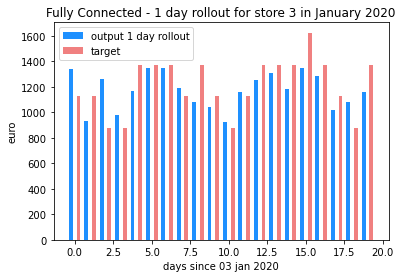
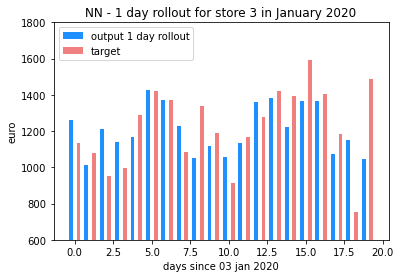
(no branch): Auto stash before rebase of "main"

diff --git a/main.py b/main.py
@@ -78,9 +78,6 @@ df = utils.remove_nan_values(df)
 date = '2020-01-01'
 
 
-scaler = MinMaxScaler()
-df_scaled = df.copy()
-df_scaled[df_scaled.columns] = scaler.fit_transform(df_scaled[df_scaled.columns])
 df['store_id'] = df.index.get_level_values('store_id')
 
 df_pre, df_post = utils.split_on_date(df, date)
@@ -88,18 +85,17 @@ df_pre, df_post = utils.split_on_date(df, date)
 train_x, train_y, test_x, test_y = utils.create_train_test(df_pre)
 
 model = FullyConnected(train_x.shape[1])
-model.model.fit(train_x.astype(float), train_y, validation_data = (test_x.astype(float), test_y), epochs = 10)
+model.model.fit(train_x.astype(float), train_y, validation_data = (test_x.astype(float), test_y), epochs = 50)
 output = model.predict(test_x.astype(float))
 
 model.test(test_x.astype(float), test_y)
 
-
-#1 DAY ROLLOUT
+#NN
 
 store_id = 3
 post_x, post_y = utils.create_train_test(df_post, test = False, store_id = store_id)
 
-outputs = []
+outputs_gradient_nn = []
 targets = []
 
 for i, x in post_x.iloc[0:20].iterrows():
@@ -110,7 +106,7 @@ for i, x in post_x.iloc[0:20].iterrows():
     
     output = int(output.item())
 
-    outputs.append(output//100)
+    outputs_gradient_nn.append(output//100)
     targets.append(target//100)
     
 
@@ -139,6 +135,7 @@ for i, x in post_x.iloc[0:20].iterrows():
     x.revenue_lastweek = r_7
     x.revenue_lastmonth = r_month
     
+<<<<<<< Updated upstream
     output = model.model.predict(x.astype(float).to_numpy().reshape(1,-1))
     
     output = int(output.item())
@@ -156,15 +153,40 @@ for i, x in post_x.iloc[0:20].iterrows():
 plt.bar(np.arange(len(outputs)) - 0.25, outputs, 0.25, label = 'output 1 day rollout', color = 'dodgerblue')
 plt.bar(np.arange(len(outputs)), output_rollout, 0.25, label = 'output total rollout', color = 'aqua')
 plt.bar(np.arange(len(outputs)) + 0.25, targets, 0.25, label = 'target', color = 'lightcoral')
+=======
+plt.bar(np.arange(len(outputs_gradient_nn)) - 0.25, outputs_gradient_nn, 0.25, label = 'output 1 day rollout', color = 'dodgerblue')
+plt.bar(np.arange(len(outputs_gradient_nn)) + 0.25, targets, 0.25, label = 'target', color = 'lightcoral')
+>>>>>>> Stashed changes
 
 plt.ylim([500, 1800])
 plt.legend()
-plt.title('1 day vs total rollout for store 3 in January 2020')
+plt.title('NN - 1 day rollout for store 3 in January 2020')
+plt.ylim([600, 1800])
 plt.xlabel('days since 03 jan 2020')
 plt.ylabel('euro')
 plt.show()
 
 
+model = GradientBoosting()
+model.fit(train_x, train_y)
+model.test(test_x, test_y)
+
+#GRADIENT 
+
+outputs_gradient = []
+targets = []
+
+for i, x in post_x.iloc[0:20].iterrows():
+
+    target = post_y.loc[i]   
+
+    x_vec = model.toNumpyVector(x)
+    output = model.predict(x_vec)
+
+    output = int(output.item())
+
+    outputs_gradient.append(output//100)
+    targets.append(target//100)
 
 
 
